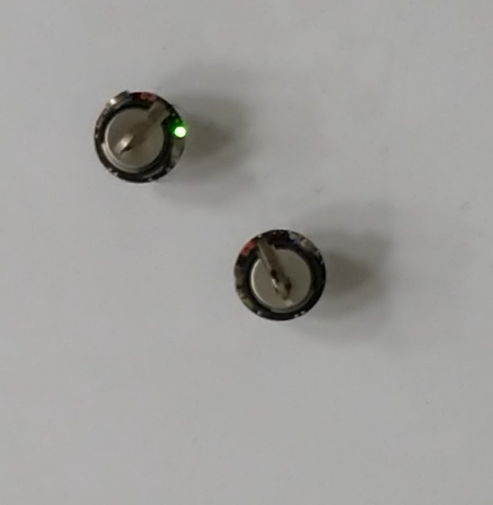
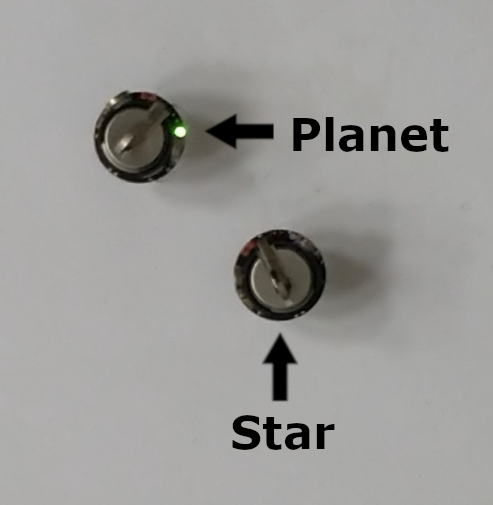
added details to figures

diff --git a/documentation.tex b/documentation.tex
@@ -90,7 +90,7 @@ Figure \ref{fig:efficient_star_planet_orbiting} provides link to the demo for or
 \begin{figure}[H]
     \centering
     \fbox{\includegraphics[width=3in]{images/efficient_orbiting}}
-    \caption{\href{https://youtu.be/LRgOzhAJI1k}{Efficient star-planet orbiting (Planet: Kilobot with green LED)}}
+    \caption{\href{https://youtu.be/LRgOzhAJI1k}{Efficient star-planet orbiting}}
     \label{fig:efficient_star_planet_orbiting}
 \end{figure}
 
@@ -106,15 +106,15 @@ Figure \ref{fig:orbit_after_escape} provides link to the demo of algorithm for p
 \begin{figure}[H]
     \centering
     \fbox{\includegraphics[width=3in]{images/orbit_after_escape}}
-    \caption{\href{https://youtu.be/X6dGCLT0ho8}{Escaping too close region of star by planet followed by orbiting (Planet: Kilobot with green LED)}}
+    \caption{\href{https://youtu.be/X6dGCLT0ho8}{Escaping too close region of star by planet followed by orbiting}}
     \label{fig:orbit_after_escape}
 \end{figure}
 
-Figure \ref{fig:orbit_two_star_comm1} provides link to the demo of algorithm for planet to orbit around two stars. Only single communication is used to identify minimum distance, leading to instability.
+Figure \ref{fig:orbit_two_star_comm1} provides link to the demo of algorithm for planet to orbit around two stars. Only single communication was used to identify minimum distance, leading to instability.
 \begin{figure}[H]
     \centering
     \fbox{\includegraphics[width=3in]{images/orbit_two_stars_comm_1}}
-    \caption{\href{https://youtu.be/mhW04WvGKuQ}{Orbiting of planet around two stars using single communication leads to instability (Planet: Kilobot with green LED, No. of communications = 1)}}
+    \caption{\href{https://youtu.be/mhW04WvGKuQ}{Orbiting of planet around two stars using single communication to estimate minimum distance leads to instability}}
     \label{fig:orbit_two_star_comm1}
 \end{figure}
 
@@ -122,7 +122,7 @@ Figure \ref{fig:orbit_two_star} provides link to the demo of algorithm for plane
 \begin{figure}[H]
     \centering
     \fbox{\includegraphics[width=3in]{images/orbit_two_stars}}
-    \caption{\href{https://youtu.be/EKvty2OxXxM}{Orbiting of planet around two stars using 2 communications to estimate minimum distance (Planet: Kilobot with green LED, No. of communications = 2)}}
+    \caption{\href{https://youtu.be/EKvty2OxXxM}{Orbiting of planet around two stars using two communications to estimate minimum distance}}
     \label{fig:orbit_two_star}
 \end{figure}
 
@@ -130,25 +130,25 @@ Figure \ref{fig:orbit_three_stars} provides link to the demo of algorithm for pl
 \begin{figure}[H]
     \centering
     \fbox{\includegraphics[width=3in]{images/orbiting_three_stars}}
-    \caption{\href{https://youtu.be/5aZm0Os9BPc}{Orbiting of planet around three stars using four communications to estimate minimum distance (Planet: Kilobot with red LED, No. of communications = 4)}}
+    \caption{\href{https://youtu.be/5aZm0Os9BPc}{Orbiting of planet around three stars using four communications to estimate minimum distance}}
     \label{fig:orbit_three_stars}
 \end{figure}
 
 \chapter{Shape formation}
-In this chapter, we will discuss an algorithm motivated by the work \cite{MR-AC-RN:2014} of SSL lab, Harvard University, for shape formation. Rather than implementing the entire algorithm, we will only consider a portion of it assuming that the next robot to be placed is available near origin.
-\section{}
+In this chapter, we will discuss an algorithm motivated by the work \cite{MR-AC-RN:2014} of SSL lab, Harvard University, for shape formation. Rather than implementing the entire algorithm, we will only consider a portion of it, assuming that the next robot to be placed is available near origin.
+\section{Framework}
 \begin{itemize}
         \item Three robots (guides) are used as reference for axis orientation.
         \item A robot (builder) participating in shape formation starts near the left of origin.
         \item In its effort to reach the desired location, builder orbits around the partial shape using the algorithm presented in last chapter.
         \item The builder stops orbiting when it reaches the desired location.
-        \item Builder becomes a guide, therefore, helping the next builder.
+        \item Builder becomes a guide, thereby, helping the next builder.
 \end{itemize}
-To participate in shape formation, builders need to decide upon what global shape to form. This is achieved by sharing a shape matrix encapsulating the desired shape as an array of 5-touple. The 5-touple contains the following information necessary for establishing builders at desired location
+To participate in shape formation, builders need to decide upon what global shape to form. This is achieved by sharing a shape matrix encapsulating the desired shape as an array of 5-touple. The 5-touple contains the following information necessary for establishing builders at desired location:
 \begin{align}
 \left(
 \begin{matrix}
-    Index_1 & Neighbour_1 & Desired\ distance_1 & Neighbour_2 & Desired\ distance_2
+    Index & Neighbour_1 & Desired\ distance_1 & Neighbour_2 & Desired\ distance_2
 \end{matrix}
 \right)
 \end{align}
@@ -162,7 +162,7 @@ For forming a linear shape of width 2, the shape matrix would look like
     \cdots & \cdots & \cdots & \cdots & \cdots
 \end{bmatrix}
 \end{align}
-It is important to note that we require the shape to be such that each node has atleast two neighbours or else builder will fail to localize correctly.
+It is important to note that we require the shape to ensure two neighbours for each node or else builder would fail to localize correctly.
 \section{Flowchart}
 Figure \ref{fig:fc_shape_form} explains the algorithm for shape formation. Our algorithm differs from \cite{MR-AC-RN:2014} in its implementation of shape matrix, and localization to be discussed in detail in next section.
 \begin{figure}[H]
